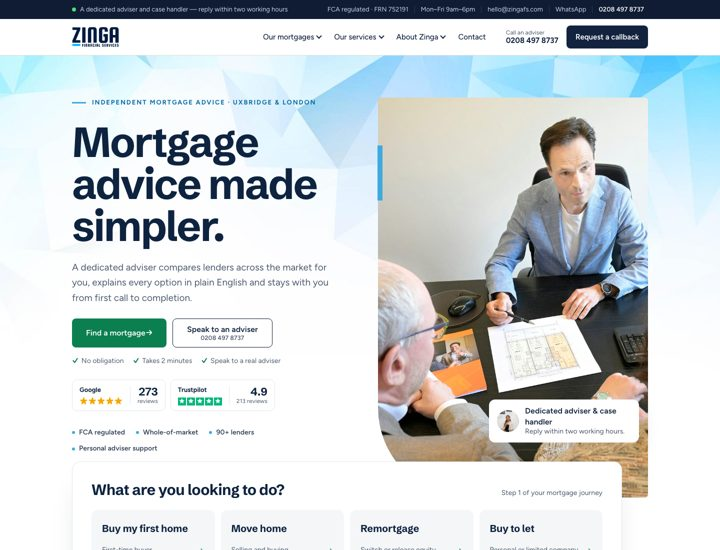
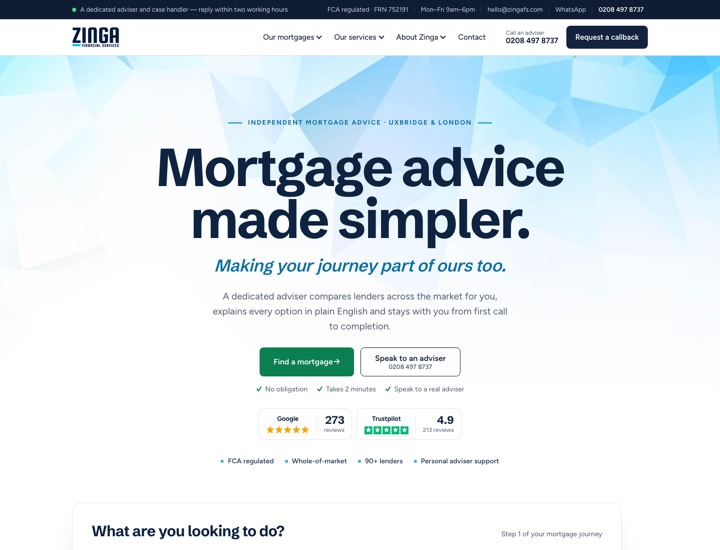
Update new homepage: message-led hero with the Zinga motto (client feedback, 2 Oct)

diff --git a/new/index.html b/new/index.html
@@ -4,23 +4,27 @@
 <meta name="robots" content="noindex, nofollow">
 <meta charset="utf-8">
 <meta name="viewport" content="width=device-width, initial-scale=1">
-<title>Mortgage advisers in Uxbridge | Zinga Financial Services</title>
+<title>Mortgage broker in Uxbridge &amp; London | Zinga Financial Services</title>
 <meta name="description" content="Mortgage and protection advice from a local Uxbridge team. A dedicated adviser and case handler from first call to keys, with a reply within two working hours.">
 <link rel="canonical" href="./">
-<meta property="og:type" content="website">
+<meta name="robots" content="index, follow, max-snippet:-1, max-image-preview:large, max-video-preview:-1"><meta property="og:type" content="website">
+<meta property="og:locale" content="en_GB">
 <meta property="og:site_name" content="Zinga Financial Services">
-<meta property="og:title" content="Mortgage advisers in Uxbridge">
+<meta property="og:title" content="Mortgage broker in Uxbridge &amp; London">
 <meta property="og:description" content="Mortgage and protection advice from a local Uxbridge team. A dedicated adviser and case handler from first call to keys, with a reply within two working hours.">
-<meta property="og:url" content="https://zingafs.com">
-<meta property="og:image" content="https://zingafs.com/storage/stock/hero.jpg"><link rel="icon" href="images/zinga-logo.png">
+<meta property="og:url" content="http://127.0.0.1:8012">
+<meta property="og:image" content="http://127.0.0.1:8012/storage/stock/hero.jpg"><meta name="twitter:card" content="summary_large_image">
+<meta name="twitter:title" content="Mortgage broker in Uxbridge &amp; London">
+<meta name="twitter:description" content="Mortgage and protection advice from a local Uxbridge team. A dedicated adviser and case handler from first call to keys, with a reply within two working hours.">
+<link rel="alternate" type="text/plain" title="LLM summary" href="#" data-preview-link="/llms.txt">
+<link rel="icon" href="images/zinga-logo.png">
 <link rel="preconnect" href="https://fonts.googleapis.com">
 <link rel="preconnect" href="https://fonts.gstatic.com" crossorigin>
-<link href="https://fonts.googleapis.com/css2?family=Figtree:wght@400;500;600;700&display=swap" rel="stylesheet">
+<link href="https://fonts.googleapis.com/css2?family=Figtree:wght@400;500;600;700&family=Schibsted+Grotesk:wght@600;700;800&display=swap" rel="stylesheet">
 <link rel="stylesheet" href="css/site.css">
-<script src="js/site.js" defer nonce="6RrLTPyHO0VKUzVJsRBoa607VfpdKTVL"></script>
-    <link href="https://fonts.googleapis.com/css2?family=Schibsted+Grotesk:wght@600;700;800&display=swap" rel="stylesheet">
-    <script src="js/home.js" defer nonce="6RrLTPyHO0VKUzVJsRBoa607VfpdKTVL"></script>
-</head>
+<script src="js/site.js" defer nonce="Y53bfsWTGfIeulhlhPMZq9xJYjEdAdFj"></script>
+        <script src="js/home.js" defer nonce="Y53bfsWTGfIeulhlhPMZq9xJYjEdAdFj"></script>
+    </head>
 <body>
 <a class="skip-link" href="#main">Skip to content</a>
 <div class="page">
@@ -85,6 +89,24 @@
                                         <a class="mega-item" href="#" data-preview-link="/second-charge-mortgage">
                                             <img src="storage/stock/service-second-charge.jpg" alt=""  width="56"   height="56"         loading="lazy" decoding="async"  class="mega-thumb">
                                             <span><span class="mega-title">Second charge</span><span class="mega-desc">When a second charge may be considered, and the alternatives first.</span></span>
+                                        </a>
+                                    </li>
+                                                                    <li>
+                                        <a class="mega-item" href="#" data-preview-link="/company-director-mortgages">
+                                            <img src="storage/stock/service-company-director.jpg" alt=""  width="56"   height="56"         loading="lazy" decoding="async"  class="mega-thumb">
+                                            <span><span class="mega-title">Company directors</span><span class="mega-desc">How lenders look at salary, dividends and company profit.</span></span>
+                                        </a>
+                                    </li>
+                                                                    <li>
+                                        <a class="mega-item" href="#" data-preview-link="/contractor-mortgages">
+                                            <img src="storage/stock/service-contractor.jpg" alt=""  width="56"   height="56"         loading="lazy" decoding="async"  class="mega-thumb">
+                                            <span><span class="mega-title">Contractors</span><span class="mega-desc">Day-rate, limited company and umbrella contractors.</span></span>
+                                        </a>
+                                    </li>
+                                                                    <li>
+                                        <a class="mega-item" href="#" data-preview-link="/self-employed-mortgages">
+                                            <img src="storage/stock/service-self-employed.jpg" alt=""  width="56"   height="56"         loading="lazy" decoding="async"  class="mega-thumb">
+                                            <span><span class="mega-title">Self-employed</span><span class="mega-desc">Sole traders and partners: how lenders read your tax returns.</span></span>
                                         </a>
                                     </li>
                                                             </ul>
@@ -232,6 +254,12 @@
 <span>Commercial</span></a>
                                     <a href="#" data-preview-link="/second-charge-mortgage"><img src="storage/stock/service-second-charge.jpg" alt=""  width="40"   height="40"         loading="lazy" decoding="async"  class="drawer-thumb">
 <span>Second charge</span></a>
+                                    <a href="#" data-preview-link="/company-director-mortgages"><img src="storage/stock/service-company-director.jpg" alt=""  width="40"   height="40"         loading="lazy" decoding="async"  class="drawer-thumb">
+<span>Company directors</span></a>
+                                    <a href="#" data-preview-link="/contractor-mortgages"><img src="storage/stock/service-contractor.jpg" alt=""  width="40"   height="40"         loading="lazy" decoding="async"  class="drawer-thumb">
+<span>Contractors</span></a>
+                                    <a href="#" data-preview-link="/self-employed-mortgages"><img src="storage/stock/service-self-employed.jpg" alt=""  width="40"   height="40"         loading="lazy" decoding="async"  class="drawer-thumb">
+<span>Self-employed</span></a>
                                 <a class="drawer-hub" href="#" data-preview-link="/mortgages">All mortgage options →</a>
             </div>
         </details>
@@ -276,48 +304,35 @@
     
     <section class="hp-hero">
                     <img class="hp-hero-bg" src="storage/stock/banner.jpg" alt="" aria-hidden="true" width="1920" height="790" fetchpriority="low" decoding="async">
-                <div class="container hp-hero-grid">
-            <div class="hp-hero-copy">
-                <p class="hp-eyebrow">Independent mortgage advice · Uxbridge &amp; London</p>
-                <h1 class="hp-h1">Mortgage advice made simpler.</h1>
-                <p class="hp-lede">A dedicated adviser compares lenders across the market for you, explains every option in plain English and stays with you from first call to completion.</p>
-                <div class="hp-cta-row">
-                    <a class="btn btn-go btn-lg" href="#enquiry" data-scroll-enquiry data-event="find_mortgage_click" data-location="hero">Find a mortgage <span aria-hidden="true">→</span></a>
-                    <a class="btn btn-outline btn-lg hp-call-btn" href="tel:02084978737" data-event="call_click" data-location="hero"><span>Speak to an adviser</span><small>0208 497 8737</small></a>
-                </div>
-                <ul class="hp-ticks" aria-label="What to expect">
-                    <li>No obligation</li><li>Takes 2 minutes</li><li>Speak to a real adviser</li>
-                </ul>
-                <div class="hp-badges">
-                    <a class="hp-badge" href="#" data-preview-link="/reviews">
-                        <span class="hp-badge-name">Google<span class="hp-stars hp-stars-g" aria-hidden="true">★★★★★</span></span>
-                        <span class="hp-badge-score"><strong>273</strong><small>reviews</small></span>
-                    </a>
-                    <a class="hp-badge" href="#" data-preview-link="/reviews">
-                        <span class="hp-badge-name">Trustpilot<span class="hp-stars hp-stars-tp" aria-hidden="true"><i>★</i><i>★</i><i>★</i><i>★</i><i>★</i></span></span>
-                        <span class="hp-badge-score"><strong>4.9</strong><small>213 reviews</small></span>
-                    </a>
-                </div>
-                <ul class="hp-trust-row">
-                                            <li>FCA regulated</li>
-                                            <li>Whole-of-market</li>
-                                            <li>90+ lenders</li>
-                                            <li>Personal adviser support</li>
-                                    </ul>
+                
+        <div class="container hp-hero-solo">
+            <p class="hp-eyebrow">Independent mortgage advice · Uxbridge &amp; London</p>
+            <h1 class="hp-h1">Mortgage advice made simpler.</h1>
+                            <p class="hp-motto">Making your journey part of ours too.</p>
+                        <p class="hp-lede">A dedicated adviser compares lenders across the market for you, explains every option in plain English and stays with you from first call to completion.</p>
+            <div class="hp-cta-row">
+                <a class="btn btn-go btn-lg" href="#enquiry" data-scroll-enquiry data-event="find_mortgage_click" data-location="hero">Find a mortgage <span aria-hidden="true">→</span></a>
+                <a class="btn btn-outline btn-lg hp-call-btn" href="tel:02084978737" data-event="call_click" data-location="hero"><span>Speak to an adviser</span><small>0208 497 8737</small></a>
             </div>
-            <div class="hp-hero-media">
-                <div class="hp-hero-frame">
-                    <img src="storage/stock/hero.jpg" alt="A Zinga adviser talking a couple through their mortgage options"  width="1600"   height="1280"         loading="eager" decoding="async"  fetchpriority="high"  >
-                </div>
-                <span class="hp-hero-accent" aria-hidden="true"></span>
-                                    <div class="hp-hero-card">
-                        <img src="storage/stock/adviser-2.jpg" alt=""  width="44"   height="44"         loading="lazy" decoding="async"  class="avatar avatar-md">
-                        <div>
-                            <p class="strong">Dedicated adviser &amp; case handler</p>
-                            <p class="small muted">Reply within two working hours.</p>
-                        </div>
-                    </div>
-                            </div>
+            <ul class="hp-ticks" aria-label="What to expect">
+                <li>No obligation</li><li>Takes 2 minutes</li><li>Speak to a real adviser</li>
+            </ul>
+            <div class="hp-badges">
+                <a class="hp-badge" href="#" data-preview-link="/reviews">
+                    <span class="hp-badge-name">Google<span class="hp-stars hp-stars-g" aria-hidden="true">★★★★★</span></span>
+                    <span class="hp-badge-score"><strong>273</strong><small>reviews</small></span>
+                </a>
+                <a class="hp-badge" href="#" data-preview-link="/reviews">
+                    <span class="hp-badge-name">Trustpilot<span class="hp-stars hp-stars-tp" aria-hidden="true"><i>★</i><i>★</i><i>★</i><i>★</i><i>★</i></span></span>
+                    <span class="hp-badge-score"><strong>4.9</strong><small>213 reviews</small></span>
+                </a>
+            </div>
+            <ul class="hp-trust-row">
+                                    <li>FCA regulated</li>
+                                    <li>Whole-of-market</li>
+                                    <li>90+ lenders</li>
+                                    <li>Personal adviser support</li>
+                            </ul>
         </div>
     </section>
 
@@ -441,6 +456,27 @@
                     <span class="d">When a second charge may be considered, and the alternatives first.</span>
                     <span class="more">Second charge →</span>
                 </a>
+                            <a class="service-card" href="#" data-preview-link="/company-director-mortgages">
+                                            <div class="card-img"><img src="storage/stock/service-company-director.jpg" alt=""  width="600"   height="400"         loading="lazy" decoding="async"  >
+</div>
+                                        <span class="t">I&#039;m a company director</span>
+                    <span class="d">How lenders look at salary, dividends and company profit.</span>
+                    <span class="more">Company directors →</span>
+                </a>
+                            <a class="service-card" href="#" data-preview-link="/contractor-mortgages">
+                                            <div class="card-img"><img src="storage/stock/service-contractor.jpg" alt=""  width="600"   height="400"         loading="lazy" decoding="async"  >
+</div>
+                                        <span class="t">I&#039;m a contractor</span>
+                    <span class="d">Day-rate, limited company and umbrella contractors.</span>
+                    <span class="more">Contractors →</span>
+                </a>
+                            <a class="service-card" href="#" data-preview-link="/self-employed-mortgages">
+                                            <div class="card-img"><img src="storage/stock/service-self-employed.jpg" alt=""  width="600"   height="400"         loading="lazy" decoding="async"  >
+</div>
+                                        <span class="t">I&#039;m self-employed</span>
+                    <span class="d">Sole traders and partners: how lenders read your tax returns.</span>
+                    <span class="more">Self-employed →</span>
+                </a>
                             <a class="service-card" href="#" data-preview-link="/personal-protection">
                                             <div class="card-img"><img src="storage/stock/service-personal-protection.jpg" alt=""  width="600"   height="400"         loading="lazy" decoding="async"  >
 </div>
@@ -550,7 +586,7 @@
         <div class="container hp-enquiry-grid">
             <div class="hp-enquiry-side">
                 <p class="hp-eyebrow">Mortgage enquiry</p>
-                <h2 id="enquiry-h" class="hp-h2">Tell us what you need. We'll do the comparing.</h2>
+                <h2 id="enquiry-h" class="hp-h2">Tell us what you need. We&#039;ll do the comparing.</h2>
                 <p class="hp-lede">Takes about two minutes. An adviser will be in touch to talk through your options.</p>
                 <ol class="hp-progress-list"  data-progress-list >
                     <li class="is-current"><span>1</span>What you need</li>
@@ -572,7 +608,8 @@
 
             <div class="hp-form-card">
                                     <form class="hp-form" method="POST" action="#" novalidate data-enquiry>
-                                                <input type="hidden" name="origin" value="home">
+                                                <input type="hidden" name="origin" value="inline">
+                        <input type="hidden" name="return_to" value="/">
                         <div class="hp-bar" aria-hidden="true"><span data-bar></span></div>
 
                         
@@ -952,6 +989,9 @@
                                             <li><a href="#" data-preview-link="/buy-to-let-mortgage">Buy-to-let</a></li>
                                             <li><a href="#" data-preview-link="/commercial">Commercial</a></li>
                                             <li><a href="#" data-preview-link="/second-charge-mortgage">Second charge</a></li>
+                                            <li><a href="#" data-preview-link="/company-director-mortgages">Company directors</a></li>
+                                            <li><a href="#" data-preview-link="/contractor-mortgages">Contractors</a></li>
+                                            <li><a href="#" data-preview-link="/self-employed-mortgages">Self-employed</a></li>
                                     </ul>
             </div>
             <div>
@@ -1010,9 +1050,10 @@
         <span class="wa-dot" aria-hidden="true"></span>Chat on WhatsApp
     </a>
 </div>
-    <script type="application/ld+json" nonce="6RrLTPyHO0VKUzVJsRBoa607VfpdKTVL">{"@context":"https://schema.org","@type":"FinancialService","@id":"https://zingafs.com#organization","name":"Zinga Financial Services Limited","url":"https://zingafs.com","logo":"https://zingafs.com/images/zinga-logo.png","image":"https://zingafs.com/storage/stock/hero.jpg","telephone":"0208 497 8737","email":"hello@zingafs.com","address":{"@type":"PostalAddress","streetAddress":"1st Floor, 192 High Street","addressLocality":"Uxbridge","postalCode":"UB8 1LB","addressCountry":"GB"},"areaServed":["Uxbridge","Ruislip","Slough","Hounslow","West London"]}</script>
+    <script type="application/ld+json" nonce="Y53bfsWTGfIeulhlhPMZq9xJYjEdAdFj">{"@context":"https://schema.org","@type":"FinancialService","@id":"http://127.0.0.1:8012#organization","name":"Zinga Financial Services Limited","url":"http://127.0.0.1:8012","logo":"http://127.0.0.1:8012/images/zinga-logo.png","image":"http://127.0.0.1:8012/storage/stock/hero.jpg","telephone":"0208 497 8737","email":"hello@zingafs.com","address":{"@type":"PostalAddress","streetAddress":"1st Floor, 192 High Street","addressLocality":"Uxbridge","postalCode":"UB8 1LB","addressCountry":"GB"},"areaServed":[{"@type":"City","name":"Uxbridge"},{"@type":"City","name":"Ruislip"},{"@type":"City","name":"Slough"},{"@type":"City","name":"Hounslow"},{"@type":"Country","name":"United Kingdom"}],"identifier":{"@type":"PropertyValue","propertyID":"FCA Firm Reference Number","value":"752191"},"knowsAbout":["First-time buyers","Remortgage","Buy-to-let","Commercial","Second charge","Company directors","Contractors","Self-employed","Personal protection","Home insurance"],"sameAs":null}</script>
+    <script type="application/ld+json" nonce="Y53bfsWTGfIeulhlhPMZq9xJYjEdAdFj">{"@context":"https://schema.org","@type":"WebSite","@id":"http://127.0.0.1:8012#website","name":"Zinga Financial Services","url":"http://127.0.0.1:8012","inLanguage":"en-GB","publisher":{"@id":"http://127.0.0.1:8012#organization"},"potentialAction":{"@type":"SearchAction","target":{"@type":"EntryPoint","urlTemplate":"http://127.0.0.1:8012/guides?q={search_term_string}"},"query-input":"required name=search_term_string"}}</script>
             
-        <script type="application/ld+json" nonce="6RrLTPyHO0VKUzVJsRBoa607VfpdKTVL">{"@context":"https://schema.org","@type":"FAQPage","mainEntity":[{"@type":"Question","name":"Do I need a mortgage adviser?","acceptedAnswer":{"@type":"Answer","text":"You don\u0027t have to use one. An adviser compares lenders\u0027 criteria against your circumstances, recommends a suitable option and manages the application with the lender, solicitor and estate agent."}},{"@type":"Question","name":"What does your advice cost?","acceptedAnswer":{"@type":"Answer","text":"We\u0027ll explain any fee and how we\u0027re paid — including commission from lenders — before you commit to anything, and confirm it in writing."}},{"@type":"Question","name":"How much can I borrow?","acceptedAnswer":{"@type":"Answer","text":"Lenders look at your income, outgoings, credit history and deposit, and criteria vary between them. We can give you a realistic figure in your first conversation."}},{"@type":"Question","name":"Do you only work with clients in Uxbridge?","acceptedAnswer":{"@type":"Answer","text":"No. Our office is in Uxbridge and we advise clients across Ruislip, Slough, Hounslow and beyond — by phone, video or in person."}}]}</script>
+        <script type="application/ld+json" nonce="Y53bfsWTGfIeulhlhPMZq9xJYjEdAdFj">{"@context":"https://schema.org","@type":"FAQPage","mainEntity":[{"@type":"Question","name":"Do I need a mortgage adviser?","acceptedAnswer":{"@type":"Answer","text":"You don\u0027t have to use one. An adviser compares lenders\u0027 criteria against your circumstances, recommends a suitable option and manages the application with the lender, solicitor and estate agent."}},{"@type":"Question","name":"What does your advice cost?","acceptedAnswer":{"@type":"Answer","text":"We\u0027ll explain any fee and how we\u0027re paid — including commission from lenders — before you commit to anything, and confirm it in writing."}},{"@type":"Question","name":"How much can I borrow?","acceptedAnswer":{"@type":"Answer","text":"Lenders look at your income, outgoings, credit history and deposit, and criteria vary between them. We can give you a realistic figure in your first conversation."}},{"@type":"Question","name":"Do you only work with clients in Uxbridge?","acceptedAnswer":{"@type":"Answer","text":"No. Our office is in Uxbridge and we advise clients across Ruislip, Slough, Hounslow and beyond — by phone, video or in person."}}]}</script>
     <script src="preview.js" defer></script>
 </body>
 </html>

diff --git a/new/css/site.css b/new/css/site.css
@@ -459,6 +459,7 @@ main { flex: 1; }
 .prose td { border-top: 1px solid var(--line); padding: 12px 16px; }
 .prose img { border-radius: 12px; height: auto; }
 .prose blockquote { border-left: 3px solid var(--sky); padding-left: 16px; color: var(--muted); margin: 0; }
+.guide-faqs { display: flex; flex-direction: column; gap: 16px; }
 .sources { display: flex; flex-direction: column; gap: 8px; border-top: 1px solid var(--line); padding-top: 20px; }
 
 /* Legal */
@@ -947,8 +948,6 @@ body.drawer-open { overflow: hidden; }
 /* Live-site banner as a soft backdrop, fading out towards the bottom so the journey card still sits on white */
 .hp-hero-bg { position: absolute; inset: 0 0 auto 0; width: 100%; height: 88%; object-fit: cover; object-position: top center; z-index: 0; pointer-events: none;
   -webkit-mask-image: linear-gradient(#000 55%, transparent); mask-image: linear-gradient(#000 55%, transparent); animation: fade-in 1s ease both; }
-.hp-hero-grid { display: grid; grid-template-columns: repeat(auto-fit, minmax(min(100%, 460px), 1fr)); gap: clamp(40px, 5vw, 80px); align-items: center; }
-.hp-hero-copy { display: flex; flex-direction: column; gap: 26px; max-width: 620px; padding-bottom: clamp(24px, 6vw, 110px); }
 .hp-ticks { list-style: none; margin: -10px 0 0; padding: 0; display: flex; flex-wrap: wrap; gap: 6px 18px; font-size: 14px; color: var(--hp-muted); }
 .hp-ticks li::before { content: "✓"; color: var(--go); font-weight: 800; margin-right: 6px; }
 .hp-badges { display: flex; flex-wrap: wrap; gap: 10px; }
@@ -964,16 +963,14 @@ body.drawer-open { overflow: hidden; }
 .hp-trust-row { list-style: none; margin: 0; padding: 6px 0 0; display: flex; flex-wrap: wrap; gap: 10px 22px; font-size: 14px; font-weight: 600; color: #33445a; }
 .hp-trust-row li { display: flex; align-items: center; gap: 8px; }
 .hp-trust-row li::before { content: ""; width: 6px; height: 6px; border-radius: 50%; background: var(--sky); }
-.hp-hero-media { position: relative; align-self: stretch; min-height: 420px; }
-.hp-hero-frame { position: absolute; inset: 0; border-radius: 6px 6px 6px 180px; overflow: hidden; background: #e9eef2; }
-.hp-hero-frame img { width: 100%; height: 100%; object-fit: cover; animation: hero-zoom 1.6s var(--ease-out) both; }
-.hp-hero-accent { position: absolute; left: -1px; top: 12%; width: 10px; height: 110px; background: var(--sky); }
-.hp-hero-card { position: absolute; right: 18px; bottom: 110px; display: flex; gap: 12px; align-items: center; background: #fff; border-radius: 12px; padding: 12px 16px; box-shadow: 0 16px 40px rgba(14, 35, 64, .16); max-width: 300px; line-height: 1.35; animation: pop-in .6s var(--ease-spring) .5s both; }
-@media (max-width: 919px) {
-  .hp-hero-media { min-height: 0; aspect-ratio: 4 / 3; }
-  .hp-hero-copy { padding-bottom: 0; }
-  .hp-hero-card { bottom: 18px; right: 12px; }
-}
+/* Message-led hero (2 Oct): centred copy, no photo, motto under the heading */
+.hp-hero-solo { display: flex; flex-direction: column; align-items: center; text-align: center; gap: 26px; max-width: 980px; padding-top: clamp(16px, 3vw, 40px); padding-bottom: clamp(112px, 10vw, 168px); }
+.hp-hero-solo .hp-h1 { font-size: clamp(46px, 7.4vw, 108px); line-height: .98; }
+.hp-hero-solo .hp-lede { max-width: 640px; }
+.hp-hero-solo .hp-cta-row, .hp-hero-solo .hp-ticks, .hp-hero-solo .hp-badges, .hp-hero-solo .hp-trust-row { justify-content: center; }
+.hp-hero-solo .hp-eyebrow::after { content: ""; width: 28px; height: 3px; background: var(--sky); flex-shrink: 0; }
+@media (max-width: 560px) { .hp-hero-solo .hp-eyebrow::before, .hp-hero-solo .hp-eyebrow::after { display: none; } }
+.hp-motto { font-family: var(--hp-display); font-size: clamp(22px, 2.6vw, 34px); font-weight: 600; font-style: italic; letter-spacing: -.015em; line-height: 1.2; color: #0b6fa4; text-wrap: balance; margin-top: -6px; }
 
 /* Journey selector (overlaps the hero) */
 .hp-journey-wrap { position: relative; z-index: 2; }
@@ -1233,3 +1230,108 @@ body.drawer-open { overflow: hidden; }
 .hp-press-list a:hover .hp-press-name { color: var(--hp-ink); }
 .hp-press-title { display: block; font-size: 13px; color: var(--hp-muted); max-width: 260px; }
 .hp-press-empty { padding: 22px; border: 1.5px dashed #cfb66a; background: #fffaf0; border-radius: 12px; font-size: 15px; color: #6b4d00; }
+
+/* =====================================================================
+   Inner pages v2 (design option 1 "inner" template) — .ih-* hero, .ip-* blocks
+   ===================================================================== */
+.ih { background: var(--hp-ink); color: #fff; overflow: hidden; }
+.ih-grid { padding-top: clamp(40px, 5vw, 80px); padding-bottom: clamp(48px, 6vw, 96px); display: grid; grid-template-columns: repeat(auto-fit, minmax(min(100%, 440px), 1fr)); gap: clamp(36px, 5vw, 80px); align-items: center; }
+.ih-copy { display: flex; flex-direction: column; gap: 22px; }
+.ih .breadcrumb { color: #b9c6d6; margin: 0; }
+.ih .breadcrumb a { color: #b9c6d6; }
+.ih .breadcrumb a:hover { color: #fff; }
+.ih .breadcrumb [aria-current] { color: #fff; }
+.ih-badge { align-self: flex-start; font-size: 12px; font-weight: 700; letter-spacing: .06em; text-transform: uppercase; padding: 5px 10px; border-radius: 999px; background: rgba(143, 208, 242, .16); color: var(--sky-on-dark); }
+.ih-h1 { font-family: var(--hp-display); font-weight: 700; font-size: clamp(38px, 5vw, 68px); line-height: 1.03; letter-spacing: -.035em; text-wrap: balance; color: #fff; }
+.ih-lede { font-size: clamp(17px, 1.3vw, 19px); line-height: 1.6; color: #d3dce6; max-width: 540px; }
+.ih-btn-light { border: 1.5px solid #fff; color: #fff; background: transparent; }
+.ih-btn-light:hover { background: #fff; color: var(--hp-ink); box-shadow: none; }
+.ih-ticks { color: #d3dce6; }
+.ih-ticks li::before { color: #5fd49c; }
+.ih .hp-badge { border-color: transparent; }
+.ih-media { aspect-ratio: 6 / 5; border-radius: 6px 160px 6px 6px; overflow: hidden; background: #1a3354; }
+.ih-media img { width: 100%; height: 100%; object-fit: cover; animation: hero-zoom 1.6s var(--ease-out) both; }
+.ih-trust { border-bottom: 1px solid var(--hp-line); background: #fff; }
+.ih-trust .hp-trust-row { padding: 20px 24px; gap: 10px 32px; }
+
+.ip-intro { display: grid; grid-template-columns: repeat(auto-fit, minmax(min(100%, 420px), 1fr)); gap: clamp(28px, 5vw, 80px); align-items: start; }
+.ip-intro-text { display: flex; flex-direction: column; gap: 18px; font-size: 18px; line-height: 1.7; color: var(--hp-muted); }
+.ip-answer { font-size: clamp(19px, 1.6vw, 22px); line-height: 1.55; color: var(--hp-ink); font-weight: 500; text-wrap: pretty; }
+.ip-point { font-size: 17px; line-height: 1.55; color: var(--hp-ink); }
+.ip-gap { margin-bottom: 28px; }
+
+.ip-band { margin-top: clamp(72px, 9vw, 120px); background: var(--hp-soft); }
+.ip-band-grid { padding-top: clamp(56px, 7vw, 100px); padding-bottom: clamp(56px, 7vw, 100px); display: grid; grid-template-columns: repeat(auto-fit, minmax(min(100%, 320px), 1fr)); gap: clamp(32px, 5vw, 80px); }
+.ip-band-media { aspect-ratio: 1; max-width: 400px; border-radius: 6px; overflow: hidden; margin-top: 8px; }
+.ip-band-media img { width: 100%; height: 100%; object-fit: cover; }
+.ip-band-item { padding: 26px 0; border-top: 1px solid #d5dde5; display: flex; flex-direction: column; gap: 12px; }
+.ip-ticks { list-style: none; margin: 0; padding: 0; display: flex; flex-direction: column; gap: 10px; font-size: 16.5px; color: #33445a; }
+.ip-ticks li { display: flex; gap: 10px; }
+.ip-ticks li::before { content: "✓"; color: var(--go); font-weight: 800; }
+.ip-risk { font-size: 17px; font-weight: 600; color: var(--hp-ink); border-left: 3px solid var(--hp-ink); padding-left: 16px; }
+
+.ip-rows { list-style: none; margin: 0; padding: 0; border-bottom: 1px solid var(--hp-line); }
+.ip-rows a, .ip-rows-static li > div { display: grid; grid-template-columns: minmax(0, 1fr) auto; gap: 6px 24px; align-items: center; padding: 24px 0; border-top: 1px solid var(--hp-line); color: var(--hp-ink); text-decoration: none; }
+.ip-rows a:hover { color: #0b6fa4; }
+.ip-rows a > span:not(.ip-row-arrow) { grid-column: 1; }
+.ip-row-title { display: block; font-family: var(--hp-display); font-size: clamp(21px, 2.1vw, 28px); font-weight: 700; letter-spacing: -.02em; }
+.ip-row-sub { display: block; font-size: 16px; color: var(--hp-muted); }
+.ip-row-arrow { grid-column: 2; grid-row: 1 / span 2; font-size: 22px; transition: transform .25s var(--ease-out); }
+.ip-rows a:hover .ip-row-arrow { transform: translateX(5px); }
+.ip-rows-static li > div { grid-template-columns: 1fr; }
+
+.ip-related { display: grid; grid-template-columns: repeat(auto-fit, minmax(min(100%, 360px), 1fr)); gap: clamp(32px, 5vw, 80px); align-items: start; padding-bottom: clamp(56px, 7vw, 96px); }
+.ip-quote blockquote { font-size: clamp(21px, 2vw, 27px); }
+.ip-related-list { list-style: none; margin: 0; padding: 0; border-top: 1px solid var(--hp-line); }
+.ip-related-list a { display: flex; flex-direction: column; gap: 2px; padding: 14px 0; border-bottom: 1px solid var(--hp-line); color: var(--hp-ink); font-weight: 600; text-decoration: none; }
+.ip-related-list a span { font-size: 12px; font-weight: 700; letter-spacing: .1em; text-transform: uppercase; color: #5a6a7e; }
+.ip-related-list a:hover { color: #0b6fa4; }
+
+.ip-map { display: flex; flex-direction: column; gap: 10px; padding: clamp(24px, 3vw, 40px); border: 1px solid var(--hp-line); border-radius: 16px; text-decoration: none; color: var(--hp-ink); transition: border-color .2s ease, box-shadow .25s ease; }
+.ip-map:hover { border-color: var(--hp-ink); box-shadow: 0 12px 28px rgba(14, 35, 64, .08); color: var(--hp-ink); }
+
+/* White-page hero for hubs (areas, about) */
+.ip-hero { padding-top: clamp(28px, 4vw, 48px); display: flex; flex-direction: column; gap: 22px; }
+.ip-h1 { font-family: var(--hp-display); font-weight: 700; font-size: clamp(40px, 5.6vw, 80px); line-height: 1.02; letter-spacing: -.04em; color: var(--hp-ink); max-width: 1000px; text-wrap: balance; }
+.ip-h1-xl { font-size: clamp(44px, 6.4vw, 96px); line-height: .98; }
+.ip-wide { margin-top: clamp(20px, 3vw, 40px); aspect-ratio: 21 / 9; min-height: 260px; border-radius: 6px; overflow: hidden; background: #e9eef2; }
+.ip-wide img { width: 100%; height: 100%; object-fit: cover; animation: hero-zoom 1.6s var(--ease-out) both; }
+
+.ip-area-grid { display: grid; grid-template-columns: repeat(auto-fit, minmax(min(100%, 280px), 1fr)); gap: 20px; }
+.ip-area { display: flex; flex-direction: column; border: 1px solid var(--hp-line); border-radius: 16px; overflow: hidden; text-decoration: none; color: var(--hp-ink); background: #fff; transition: transform .25s var(--ease-out), box-shadow .25s ease, border-color .2s ease; }
+.ip-area:hover { transform: translateY(-3px); box-shadow: 0 14px 30px rgba(14, 35, 64, .1); border-color: var(--hp-ink); color: var(--hp-ink); }
+.ip-area-img { display: block; aspect-ratio: 3 / 2; overflow: hidden; }
+.ip-area-img img { width: 100%; height: 100%; object-fit: cover; transition: transform .6s var(--ease-out); }
+.ip-area:hover .ip-area-img img { transform: scale(1.05); }
+.ip-area-body { padding: 20px 22px 24px; display: flex; flex-direction: column; gap: 8px; flex: 1; font-size: 15px; }
+.ip-area-tag { align-self: flex-start; font-size: 12px; font-weight: 700; letter-spacing: .06em; text-transform: uppercase; padding: 4px 10px; border-radius: 999px; background: #eaf6fc; color: #0b6fa4; }
+.ip-area-name { font-family: var(--hp-display); font-size: 32px; font-weight: 700; letter-spacing: -.03em; }
+.ip-area-go { margin-top: auto; padding-top: 6px; font-weight: 700; color: var(--go); }
+
+.ip-stats { margin-top: clamp(72px, 9vw, 120px); background: var(--hp-ink); color: #fff; }
+.ip-stats-grid { margin: 0 auto; padding-top: clamp(48px, 6vw, 90px); padding-bottom: clamp(48px, 6vw, 90px); display: grid; grid-template-columns: repeat(auto-fit, minmax(min(100%, 200px), 1fr)); gap: 36px; }
+.ip-stats-grid div { border-left: 3px solid var(--sky); padding-left: 20px; }
+.ip-stats-grid dt { font-family: var(--hp-display); font-size: clamp(40px, 4.6vw, 66px); font-weight: 700; letter-spacing: -.04em; line-height: 1; }
+.ip-stats-grid dd { margin: 10px 0 0; font-size: 15px; color: #c7d2df; }
+
+/* ---------------------------------------------------------------------
+   Site-wide refresh so the remaining pages match the new look
+   (white canvas, bold display headings, green primary CTA)
+   --------------------------------------------------------------------- */
+html, body { background: #fff; }
+.page-hero { background: #fff; border-bottom: 0; }
+.page-hero-inner { padding-top: clamp(28px, 4vw, 48px); padding-bottom: clamp(36px, 4vw, 56px); }
+.page-hero h1, .article-main h1, .h1, .form-card h1, .legal-doc h1 {
+  font-family: var(--hp-display, 'Figtree'); font-weight: 700; letter-spacing: -.035em; line-height: 1.04; color: var(--navy);
+}
+.page-hero h1, .h1 { font-size: clamp(36px, 4.8vw, 64px); }
+.article-main h1 { font-size: clamp(32px, 4vw, 52px); }
+.h2, .h3, .h4, .section-head h2, .guides-head h2, .prose h2, .featured-post-body h2 { font-family: var(--hp-display, 'Figtree'); letter-spacing: -.02em; }
+.page-hero .lead { font-size: clamp(17px, 1.35vw, 20px); }
+.page-hero-inner .breadcrumb + h1, .page-hero-inner .breadcrumb + .badge { margin-top: 6px; }
+.band-white { background: var(--hp-soft, #f4f6f8); border-color: transparent; }
+.cta-box { border-radius: 18px; }
+.cta-box .btn-light { background: var(--go, #0c7f50); color: #fff; }
+.cta-box .btn-light:hover { background: var(--go-hover, #0a6b43); color: #fff; }
+.form-card .btn-primary, .aside-card .btn-primary { background: var(--go, #0c7f50); }
+.form-card .btn-primary:hover, .aside-card .btn-primary:hover { background: var(--go-hover, #0a6b43); }

diff --git a/index.html b/index.html
@@ -54,9 +54,9 @@
       <a class="card" href="new/">
         <div class="thumb"><img src="thumb-new.jpg" alt="Preview of the new homepage" width="720" height="550"></div>
         <div class="body">
-          <span class="tag new">New · after our call</span>
+          <span class="tag new">New · updated 2 Oct</span>
           <h2>New homepage</h2>
-          <p>Design option 1's layout and bold headings, with fuller imagery: step-by-step mortgage enquiry, lender logos, calculators, protection and local expertise.</p>
+          <p>Design option 1's layout and bold headings. Updated after your feedback: the hero now leads with the message and your motto, “Making your journey part of ours too.” It also has the step-by-step mortgage enquiry, lender logos, calculators, protection and local expertise.</p>
           <span class="go">View the new homepage →</span>
         </div>
       </a>
